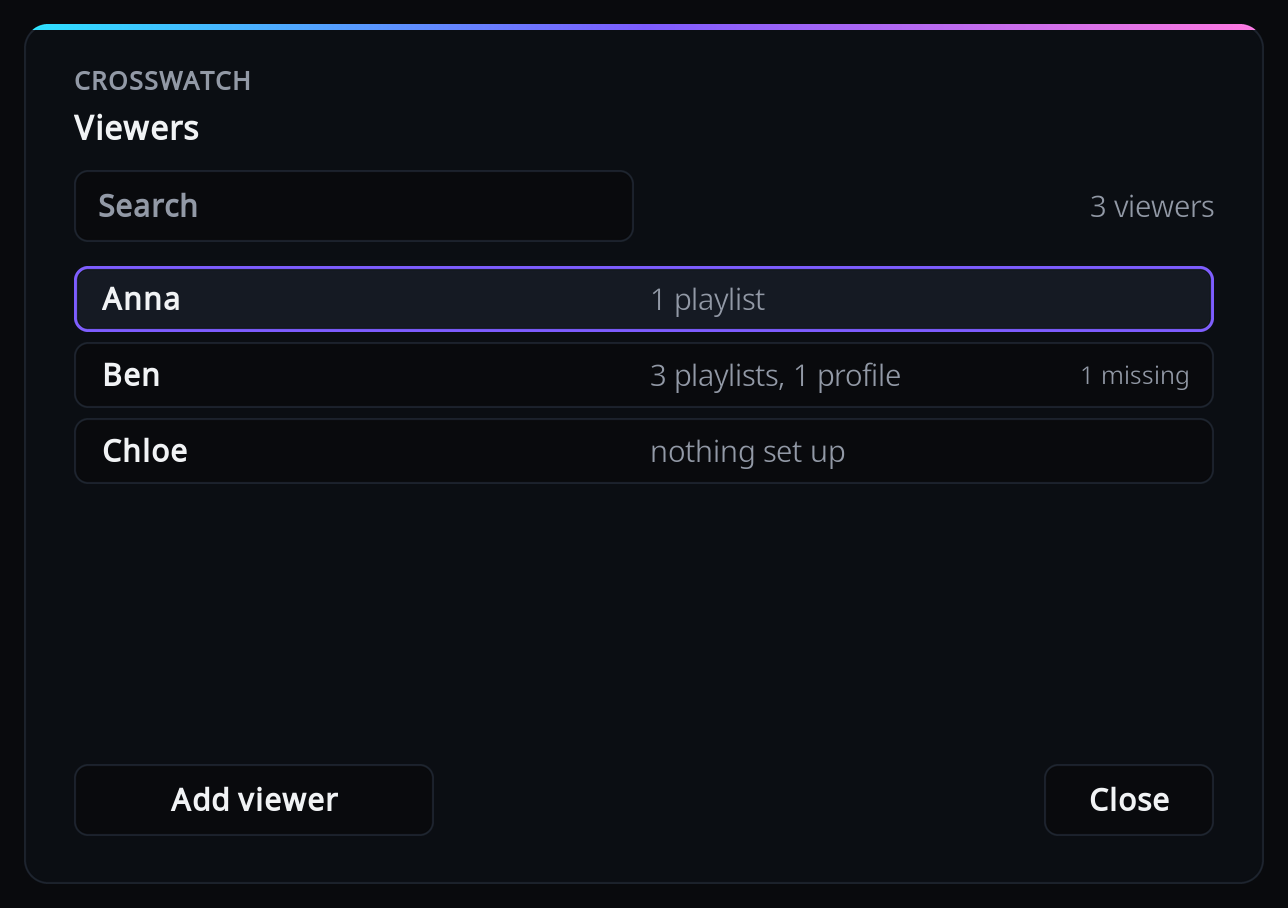
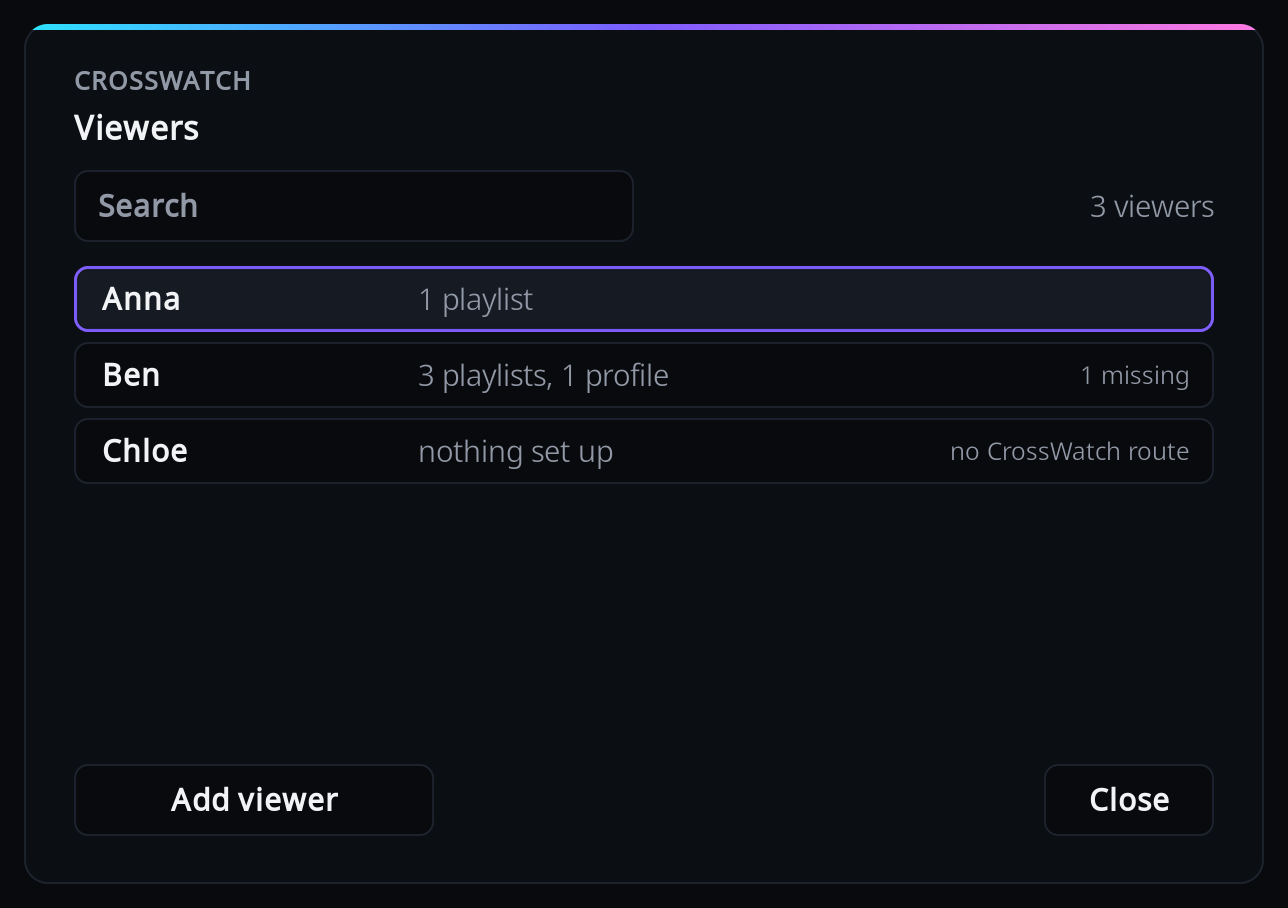
Describe the route tag and give it room in the viewer list
README explains "no CrossWatch route" in the viewer list and adds a
troubleshooting entry: compare the route's whitelist with the name,
check the person has a route, update it after a rename.

The viewer list has no thumbnails and short names, so its tag column
now takes the space the name does not need; "1 missing, no CrossWatch
route" reads in full instead of being cut off.

diff --git a/tests/test_skin_xml.py b/tests/test_skin_xml.py
@@ -286,3 +286,22 @@ def test_the_viewer_summary_keeps_one_line_each_for_playlists_and_profiles():
     for line in lines:
         assert line.get("type") == "label" and line.findtext("wrapmultiline") in (None, "false")
         assert int(line.findtext("top") or 0) + int(line.findtext("height") or 0) <= int(row.findtext("top") or 0)
+
+
+def test_a_list_without_artwork_gives_its_tags_room():
+    """Viewer names are short and tags such as "1 missing, no CrossWatch route" are long."""
+    bare = f"!{PICK} + {NO_THUMBS}"
+    root = ET.parse(LIST).getroot()
+    for layout in ("itemlayout", "focusedlayout"):
+        found = root.find(f".//control[@id='100']/{layout}")
+        assert found is not None
+        spans = {}
+        for control in found.findall("control"):
+            if control.findtext("visible") == bare:
+                left, width = int(control.findtext("left") or 0), int(control.findtext("width") or 0)
+                spans[control.findtext("label")] = (left, left + width)
+        assert set(spans) == {"$INFO[ListItem.Label]", "$INFO[ListItem.Property(detail)]", "$INFO[ListItem.Property(tag)]"}
+        tag = spans["$INFO[ListItem.Property(tag)]"]
+        assert tag[1] - tag[0] >= 400
+        ordered = sorted(spans.values())
+        assert all(a[1] <= b[0] for a, b in itertools.pairwise(ordered)), ordered

diff --git a/docker/scripts/screenshot_helper/default.py b/docker/scripts/screenshot_helper/default.py
@@ -156,7 +156,7 @@ def _viewers(scene: dict, path: str) -> None:
         "Ben": text(30056).replace("%s", "3") + ", " + text(30105),
         "Chloe": text(30104),
     }
-    tags = {"Ben": text(30057).replace("%s", "1")}
+    tags = {"Ben": text(30057).replace("%s", "1"), "Chloe": text(30117)}
     rows = tuple(lw.ListRow(key=n, title=n, detail=details[n], tag=tags.get(n, "")) for n in ("Anna", "Ben", "Chloe"))
     add = text(30048)
     request = lw.ListRequest(

diff --git a/README.md b/README.md
@@ -287,11 +287,16 @@ should describe what that person watches, not what they just happened to play.
 
 "Configure viewers and playlists" opens a CrossWatch window titled "Viewers" that lists every
 viewer. Each row shows the viewer's name and what is set up ("2 playlists, 1 profile", "1
-playlist" or "nothing set up"). When something needs fixing, the row also carries a tag such
-as "1 missing" or "1 unusable". A count shows how many viewers are listed ("3 viewers"), and a
-search box narrows the list by name. Below the list are "Add viewer", which is always
-available (also when a search finds nobody), and "Close". With no viewers configured yet, the
-screen starts straight at Add viewer.
+playlist" or "nothing set up"). When something needs fixing, the row also carries a tag such as
+"1 missing" or "1 unusable". A viewer is tagged "no CrossWatch route" when no CrossWatch route
+accepts their name. CrossWatch reports its routes for this Kodi, and the names each route
+accepts, when it answers the add-on's regular check-in (every five minutes, and straight away
+when the viewer names change). The tag only appears after CrossWatch has answered for the
+current pairing: when the add-on is not paired, or CrossWatch does not send its routes, no
+viewer is tagged. A count shows how many viewers are listed ("3 viewers"), and a search box
+narrows the list by name. Below the list are "Add viewer", which is always available (also when
+a search finds nobody), and "Close". With no viewers configured yet, the screen starts straight
+at Add viewer.
 
 Every change is saved straight away, so there is no need to close the screen, and it applies
 from the next playback.
@@ -405,6 +410,22 @@ See "The question at the end" above for the cases where it is not asked.
 
 The playlist was renamed or deleted. Edit that viewer's playlists and point it at a playlist
 that still exists.
+
+**A viewer shows "no CrossWatch route"**
+
+No CrossWatch route accepts that viewer's name, so their playback has nowhere to go. Check, in
+order:
+
+1. The name in the route's username whitelist against the viewer's name. They must be the
+   same name; CrossWatch ignores upper and lower case and punctuation when comparing.
+2. That the person has a route in CrossWatch at all. If not, create one with their name in its
+   username whitelist.
+3. Whether the viewer was just renamed. The whitelist may still have the old name: change it
+   to the new one.
+
+A route with an empty whitelist accepts every viewer. The tag can take a moment to clear: it
+updates when CrossWatch answers the add-on's next check-in (every five minutes, and straight
+away when the viewer names change).
 
 **A playlist shows as unusable**
 
